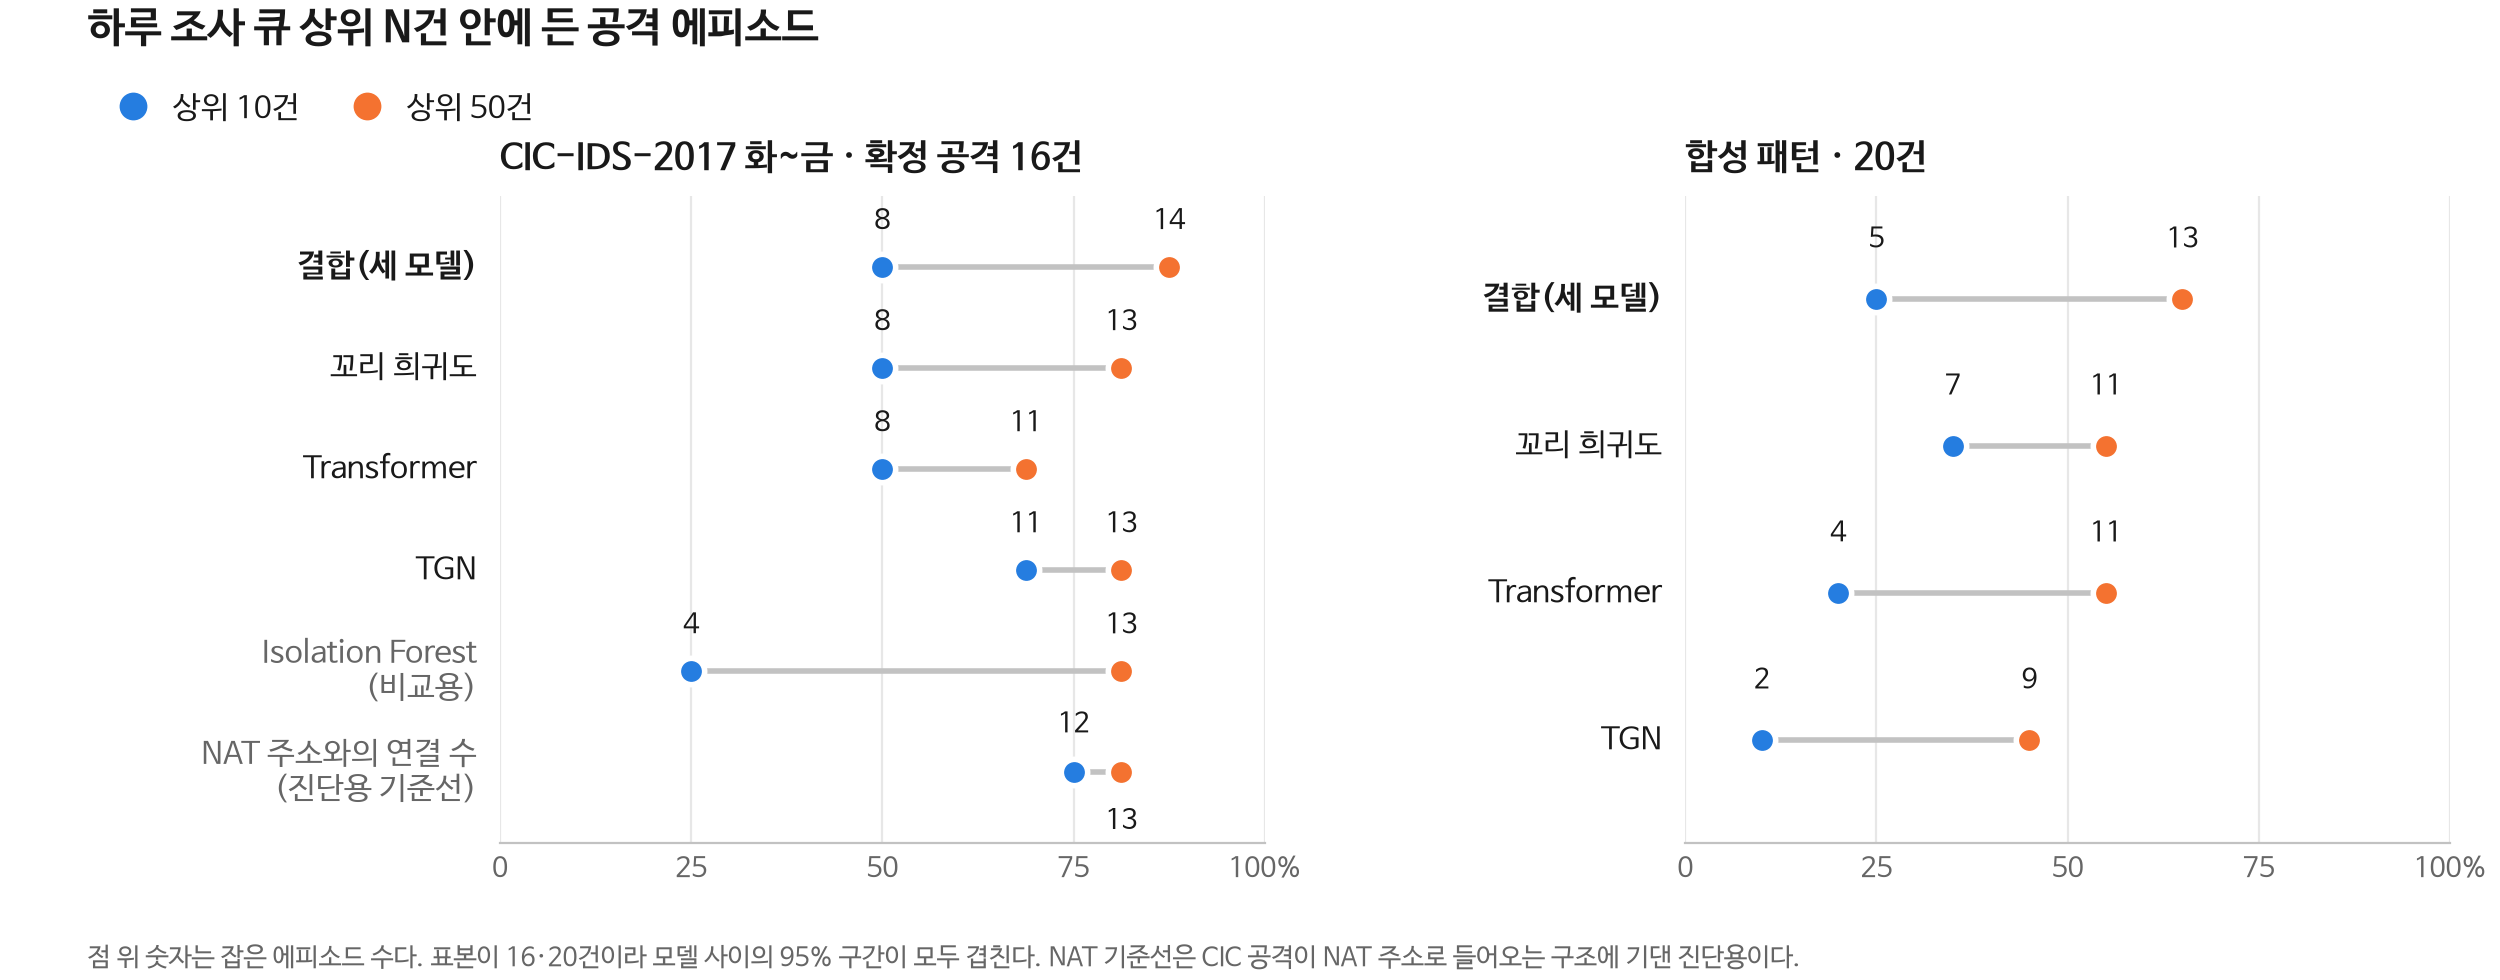
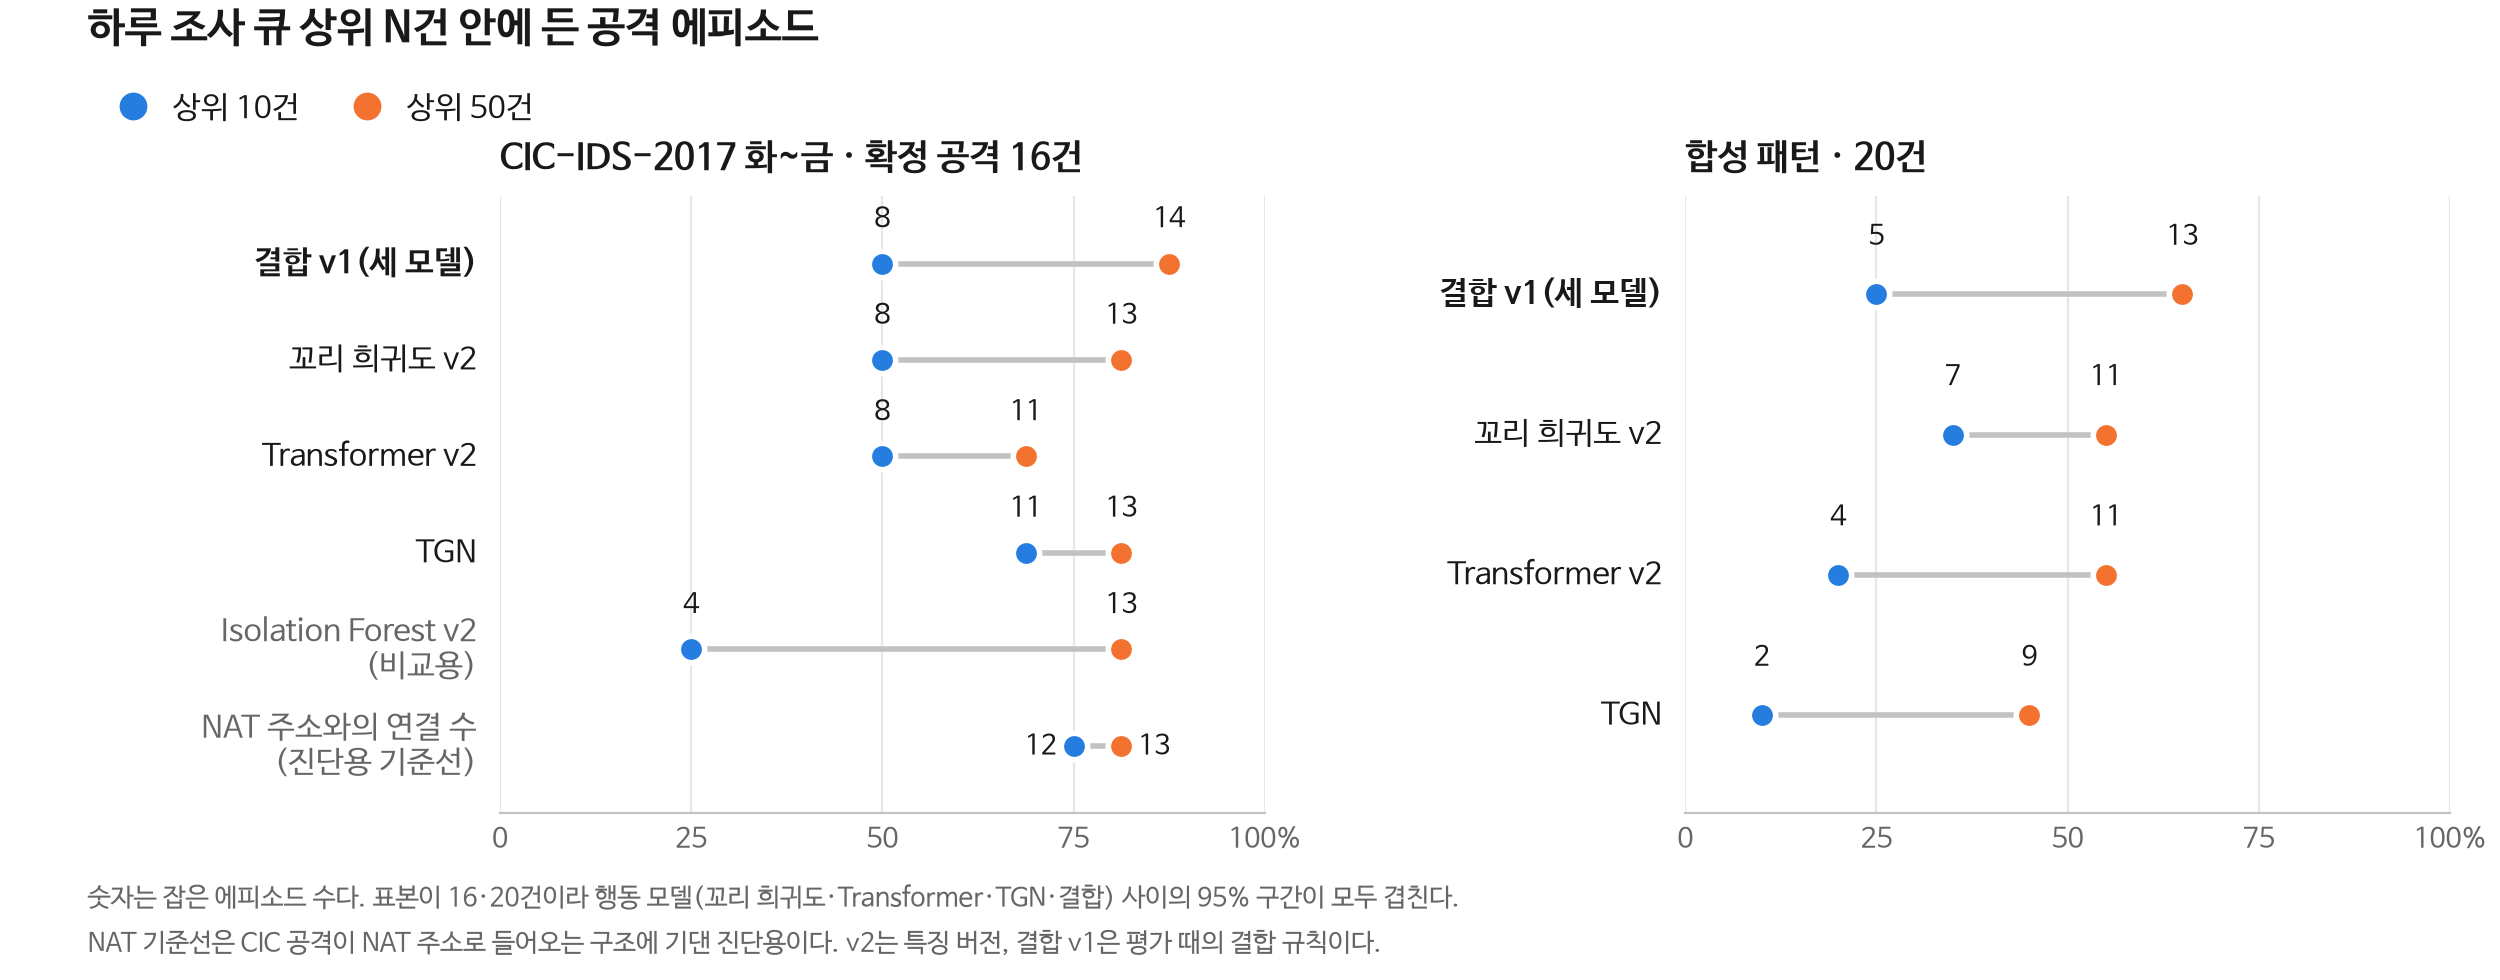
README 검토 반영: 사실 오류 셋(TGN 임계값, 구간 겹침, 비커닝 알림) 바로잡기, 빠졌던 사실과 표 보기 되살림
근거 문서(lab-attack-detection.md)와 한 장 요약의 같은 오류도 고쳤다.

diff --git a/scripts/draw_readme_figures.py b/scripts/draw_readme_figures.py
@@ -48,17 +48,17 @@ def pick_font():
 
 # 평가 결과: (큐 이름, @10 맞힌 수, @50 맞힌 수, 종류). 종류: main(결합), model, compare(비교), diag(진단 기준선)
 CIC = [
-    ("결합(세 모델)", 8, 14, "main"),
-    ("꼬리 희귀도", 8, 13, "model"),
-    ("Transformer", 8, 11, "model"),
+    ("결합 v1(세 모델)", 8, 14, "main"),
+    ("꼬리 희귀도 v2", 8, 13, "model"),
+    ("Transformer v2", 8, 11, "model"),
     ("TGN", 11, 13, "model"),
-    ("Isolation Forest", 4, 13, "compare"),
+    ("Isolation Forest v2", 4, 13, "compare"),
     ("NAT 주소와의 연결 수", 12, 13, "diag"),
 ]
 SYNTHETIC = [
-    ("결합(세 모델)", 5, 13, "main"),
-    ("꼬리 희귀도", 7, 11, "model"),
-    ("Transformer", 4, 11, "model"),
+    ("결합 v1(세 모델)", 5, 13, "main"),
+    ("꼬리 희귀도 v2", 7, 11, "model"),
+    ("Transformer v2", 4, 11, "model"),
     ("TGN", 2, 9, "model"),
 ]
 TAGS = {"compare": "비교용", "diag": "진단용 기준선"}
@@ -73,11 +73,13 @@ def recall_panel(ax, rows, total, title):
         ax.plot([x10, x50], [y, y], color=AXIS, linewidth=2, zorder=1, solid_capstyle="round")
         ax.scatter([x10], [y], s=90, color=AT10, edgecolor="white", linewidth=2, zorder=3)
         ax.scatter([x50], [y], s=90, color=AT50, edgecolor="white", linewidth=2, zorder=3)
-        # 두 점이 가까우면 라벨을 위아래로 나눈다
-        close = abs(x50 - x10) < 9
-        ax.text(x10, y + (0.32 if close else 0.3), f"{hit10}", ha="center", va="bottom", fontsize=10, color=INK)
-        ax.text(x50, y - 0.32 if close else y + 0.3, f"{hit50}", ha="center",
-                va="top" if close else "bottom", fontsize=10, color=INK)
+        # 두 점이 가까우면 라벨을 점의 왼쪽·오른쪽에 둔다(같은 행에 붙어 보이게)
+        if abs(x50 - x10) < 9:
+            ax.text(x10 - 2.2, y, f"{hit10}", ha="right", va="center", fontsize=10, color=INK)
+            ax.text(x50 + 2.2, y, f"{hit50}", ha="left", va="center", fontsize=10, color=INK)
+        else:
+            ax.text(x10, y + 0.3, f"{hit10}", ha="center", va="bottom", fontsize=10, color=INK)
+            ax.text(x50, y + 0.3, f"{hit50}", ha="center", va="bottom", fontsize=10, color=INK)
         label = name if kind not in TAGS else f"{name}\n({TAGS[kind]})"
         ax.text(-3, y, label, ha="right", va="center", fontsize=11.5 if kind == "main" else 11,
                 fontweight="bold" if kind == "main" else "normal",
@@ -107,10 +109,10 @@ def draw_eval(font):
                plt.Line2D([], [], marker="o", linestyle="", markersize=9, color=AT50, label="상위 50건")]
     fig.legend(handles=handles, loc="upper left", bbox_to_anchor=(0.03, 0.935), ncol=2, frameon=False,
                fontsize=11, handletextpad=0.3, columnspacing=1.2, labelcolor=INK)
-    fig.text(0.035, 0.015, "점 위 숫자는 잡은 에피소드 수다. 표본이 16·20건이라 모델 사이의 95% 구간이 모두 겹친다. "
-             "NAT 기준선은 CIC 공격이 NAT 주소로 들어오는 구조에 기댄 진단용이다.",
-             fontsize=9.5, color=INK2, ha="left")
-    fig.subplots_adjust(left=0.2, right=0.98, top=0.8, bottom=0.14)
+    fig.text(0.035, 0.015, "숫자는 잡은 에피소드 수다. 표본이 16·20건이라 행동 모델(꼬리 희귀도·Transformer·TGN·결합) 사이의 95% 구간이 모두 겹친다. "
+             "\nNAT 기준선은 CIC 공격이 NAT 주소로 들어오는 구조에 기댄 진단용이다. v2는 특징 버전, 결합 v1은 평가 때의 결합 규칙이다.",
+             fontsize=9.5, color=INK2, ha="left", va="bottom", linespacing=1.5)
+    fig.subplots_adjust(left=0.2, right=0.98, top=0.8, bottom=0.17)
     out = FIGURES / "eval-recall.png"
     fig.savefig(out, dpi=200, facecolor="white")
     plt.close(fig)
@@ -147,7 +149,7 @@ def draw_lab(font):
     chips = fig.add_axes([0.27, 0.2, 0.36, 0.7], sharey=names)
     times = fig.add_axes([0.66, 0.2, 0.31, 0.7], sharey=names)
     n = len(LAB)
-    # 묶음 사이에 틈을 둔다: 퍼지는 공격 4개 위, 조용한 공격 4개 아래
+    # 묶음 사이에 틈을 둔다: 퍼지는 공격 4개 위, 한 상대에 몰리는 공격 4개 아래
     ys = [n - i + (0.6 if kind == "spread" else 0) for i, (_, _, _, kind) in enumerate(LAB)]
     for ax in (names, chips):
         ax.set_xlim(0, 1)
@@ -166,7 +168,7 @@ def draw_lab(font):
             times.text(0.3, y, "잡은 실행 없음", ha="left", va="center", fontsize=9.6, color=INK2)
     group_y = (ys[3] + ys[4]) / 2
     names.text(0.03, ys[0] + 0.75, "퍼지는 공격", ha="left", fontsize=10.5, color=INK2, fontweight="bold")
-    names.text(0.03, group_y - 0.38, "조용한 공격", ha="left", fontsize=10.5, color=INK2, fontweight="bold")
+    names.text(0.03, group_y - 0.38, "한 상대에 몰리는 공격", ha="left", fontsize=10.5, color=INK2, fontweight="bold")
     for ax in (names, chips, times):
         ax.axhline(group_y, color=GRID, linewidth=1, xmin=0, xmax=1)
     chips.text(0.05, ys[0] + 0.75, "실행마다 판정", ha="left", fontsize=10.5, color=INK2, fontweight="bold")

diff --git a/docs/stage-7-progress.md b/docs/stage-7-progress.md
@@ -619,3 +619,13 @@
   | `SELECT DISTINCT zeekad_role` 3회 | 149\~157ms | 22\~23ms |
   | 보고서 표를 읽는 방식(행마다) | 기본 키 인덱스를 거꾸로 훑음, 버퍼 70,838 | 새 인덱스로 바로 찾음, 버퍼 5,612 |
 
+
+## 스물셋째 작업: README 가독성 개선(2026-11-28)
+- 사용자 요청: README가 지저분하니 가독성을 높이고, 필요 없는 내용은 줄이고, 접을 수 있는 것은 접고, 그림 한 장으로 보일 수 있는 것은 그림으로.
+- 순서를 무엇인지 → 구조도 → 핵심 결과 → 데이터와 정답 → 모델 → 공개 데이터 평가 → 실습망 시연 → LLM → 운영 → 한계 → 실행으로 맞췄다. 세부(평가 표, 사건 하나의 길, 놓친 이유, 규칙을 고른 이유, 알림 흐름, 저장소 구조 등)는 `<details>`로 접었다. 처음 보이는 분량은 235줄에서 약 170줄이다.
+- 그림 두 장을 더했다: [docs/figures/eval-recall.png](figures/eval-recall.png)(큐별 상위 10·50건), [docs/figures/lab-attacks.png](figures/lab-attacks.png)(공격 8종의 실행별 판정과 첫 알림 시간). 그리는 스크립트는 [scripts/draw_readme_figures.py](../scripts/draw_readme_figures.py). 그림의 표는 접기 안에 남겼다.
+- 숫자는 바꾸지 않았다. 맥락 없는 검토자가 옛 README와 견줘 요청한 숫자와 표가 모두 보존된 것을 확인했다.
+- 검토가 찾은 사실 오류 셋을 바로잡았다. 둘은 옛 README와 근거 문서에서 이어진 것이다.
+  - "공유 탐색에서 TGN이 처음(또는 그것에서만) 임계값을 넘었다"는 틀렸다. 서비스 스캔 1회차에서도 TGN이 11.74로 임계값(9.90)을 넘었다. "공유 탐색에서 TGN 점수가 평소와 가장 크게 벌어졌다(14.04, 평소 3.99)"로 고쳤다(README, [실습망 공격 탐지 결과](lab-attack-detection.md), [한 장 요약](portfolio-summary.md)).
+  - "16·20건이라 모든 구간이 겹친다"는 Isolation Forest [0.06, 0.44]와 NAT 기준선 [0.56, 0.94]가 겹치지 않아 틀렸다. "행동 모델 사이의 95% 구간이 모두 겹친다"로 좁혔다(README, 그림, 한 장 요약).
+  - 새로 쓴 한계 문장의 "비커닝은 알림까지 가지 못했다"는 틀렸다(알림은 나갔고 평소와 구분되지 않았다). 고쳤다.
